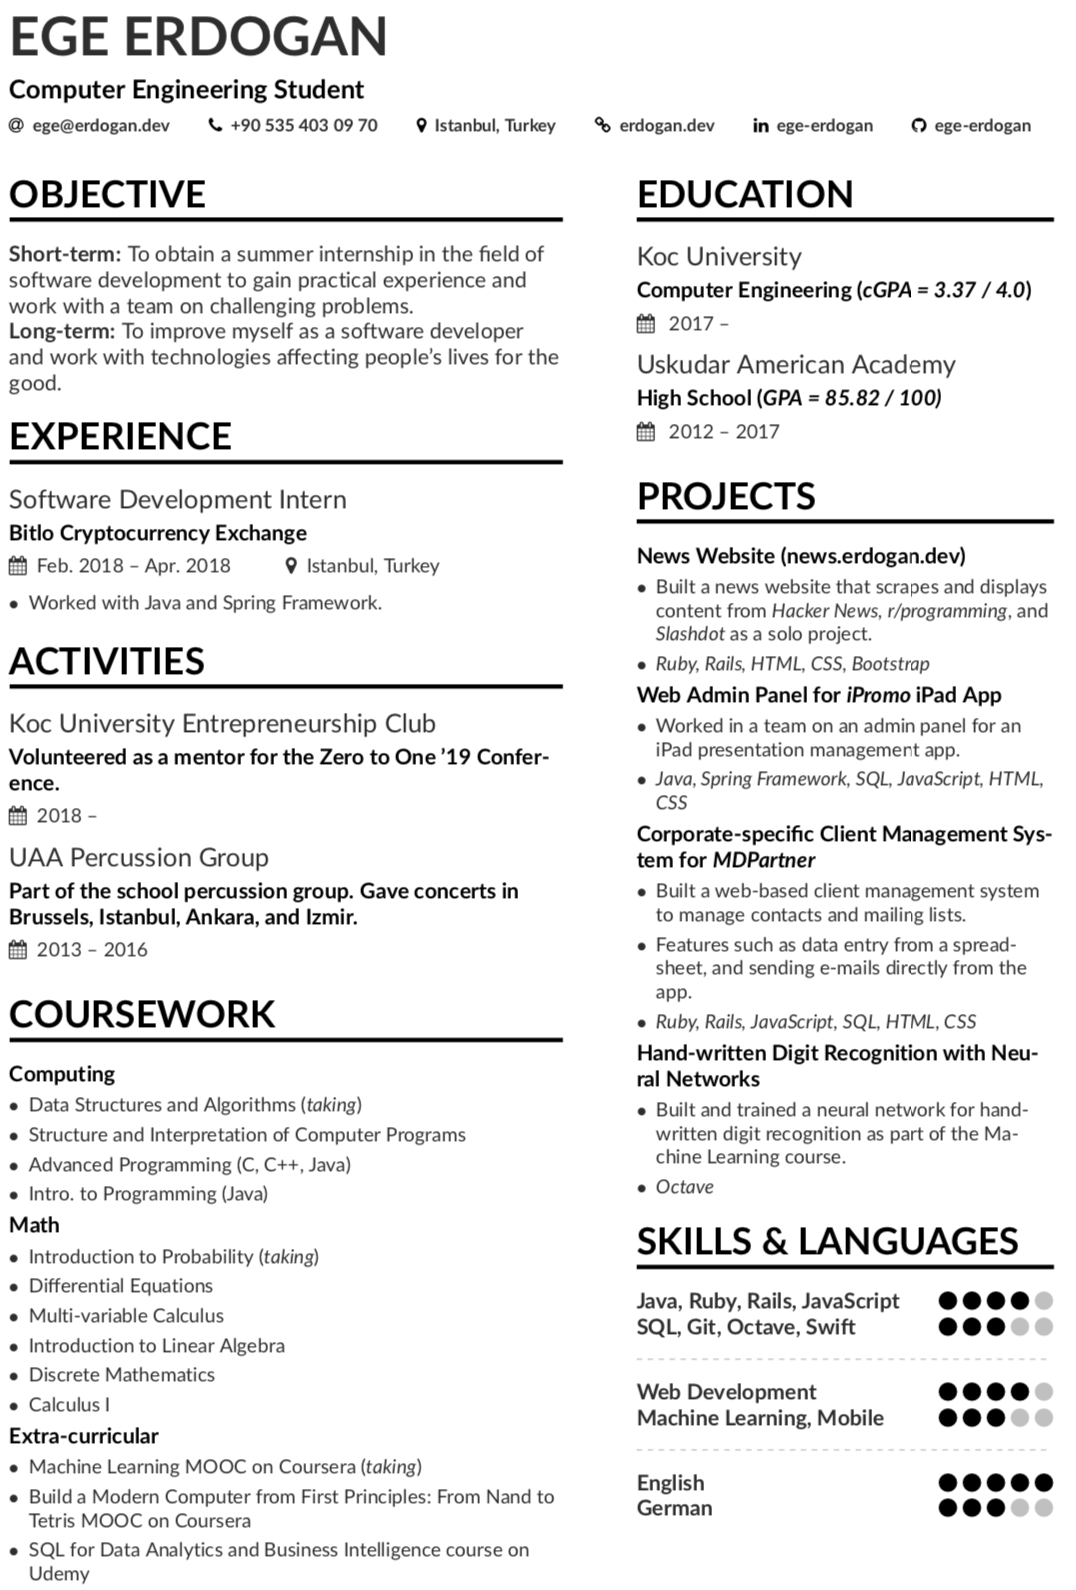
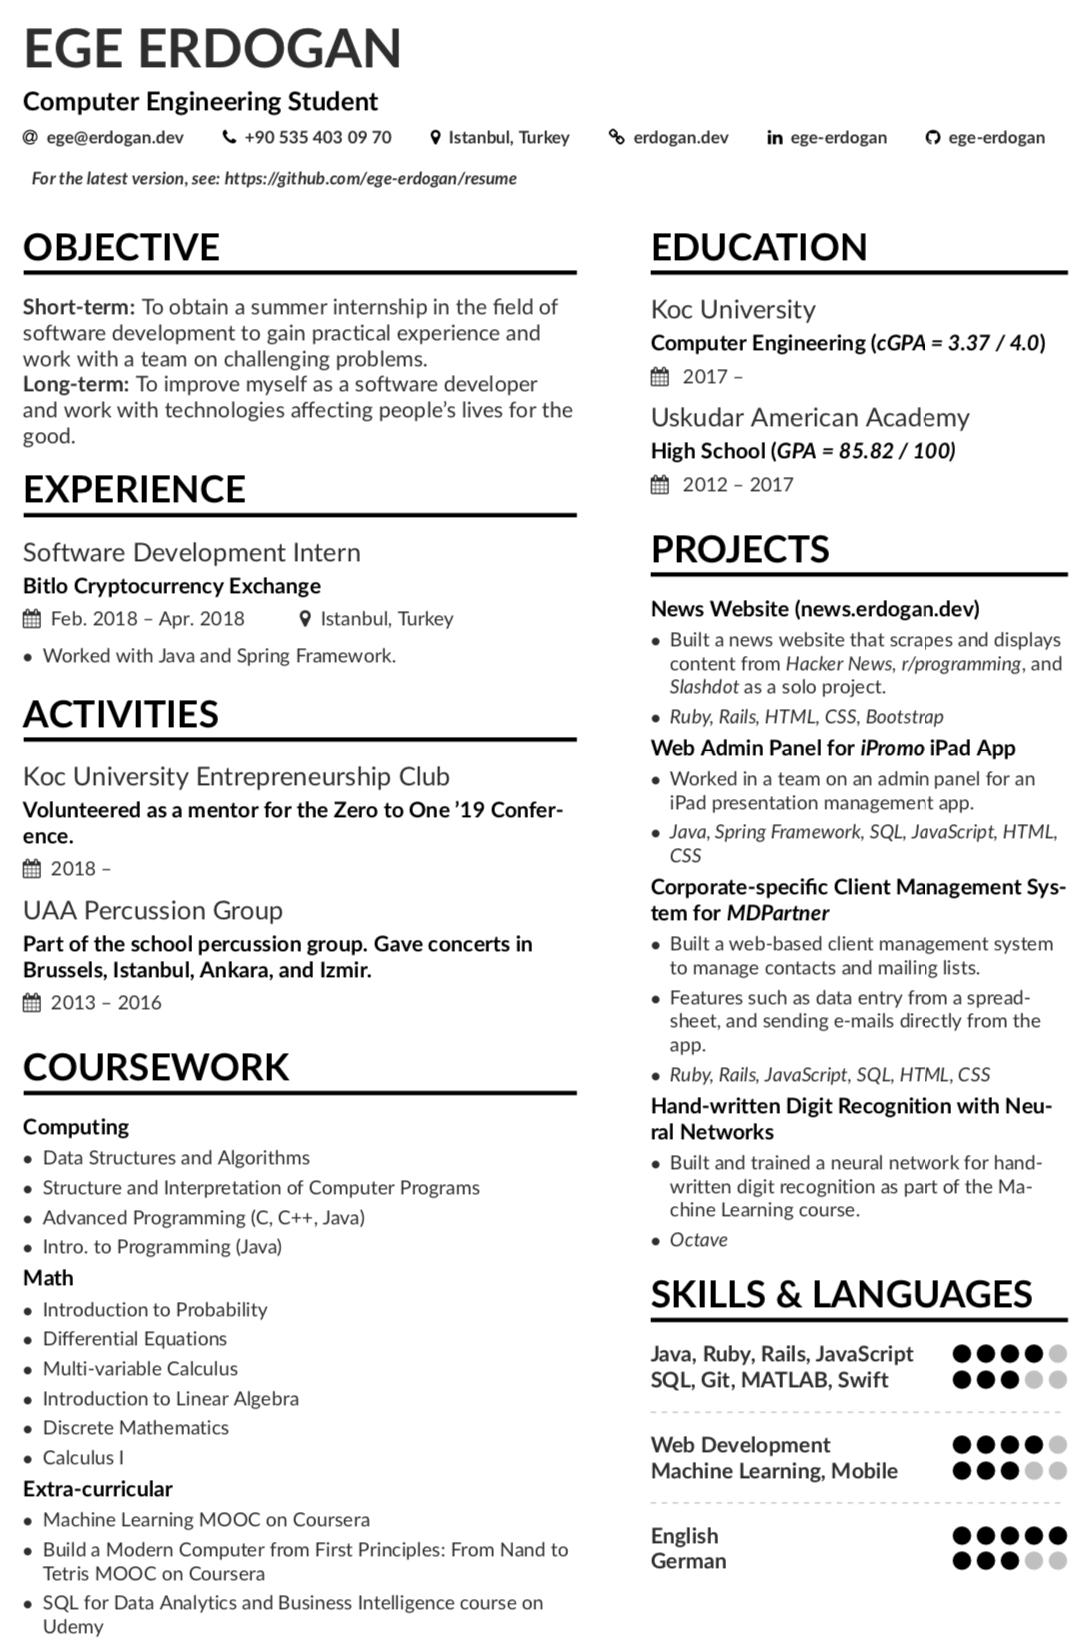
update image

Changed region(s): [[0.0, 0.0, 0.5214, 1.0], [0.552, 0.0616, 0.9814, 0.9553], [0.8587, 0.0616, 0.9814, 0.0925]]

diff --git a/resume.tex b/resume.tex
@@ -79,14 +79,14 @@
 \cvsection{Coursework}
 \cvproject{Computing}
 \begin{itemize}
-    \item Data Structures and Algorithms (\textit{taking})
+    \item Data Structures and Algorithms
     \item Structure and Interpretation of Computer Programs
     \item Advanced Programming (C, C++, Java)
     \item Intro. to Programming (Java)
 \end{itemize}
 \cvproject{Math}
 \begin{itemize}
-    \item Introduction to Probability (\textit{taking})
+    \item Introduction to Probability
     \item Differential Equations
     \item Multi-variable Calculus
     \item Introduction to Linear Algebra
@@ -95,7 +95,7 @@
 \end{itemize}
 \cvproject{Extra-curricular}
 \begin{itemize}
-    \item Machine Learning MOOC on Coursera (\textit{taking})
+    \item Machine Learning MOOC on Coursera
     \item Build a Modern Computer from First Principles: From Nand to Tetris MOOC on Coursera
     \item SQL for Data Analytics and Business Intelligence course on Udemy
 \end{itemize}

diff --git a/page1sidebar.tex b/page1sidebar.tex
@@ -33,7 +33,7 @@
 \cvsection{SKILLS \& LANGUAGES}
 
 \cvskill{Java, Ruby, Rails, JavaScript}{4}
-\cvskill{SQL, Git, Octave, Swift}{3}
+\cvskill{SQL, Git, MATLAB, Swift}{3}
 \divider
 
 \cvskill{Web Development}{4}
